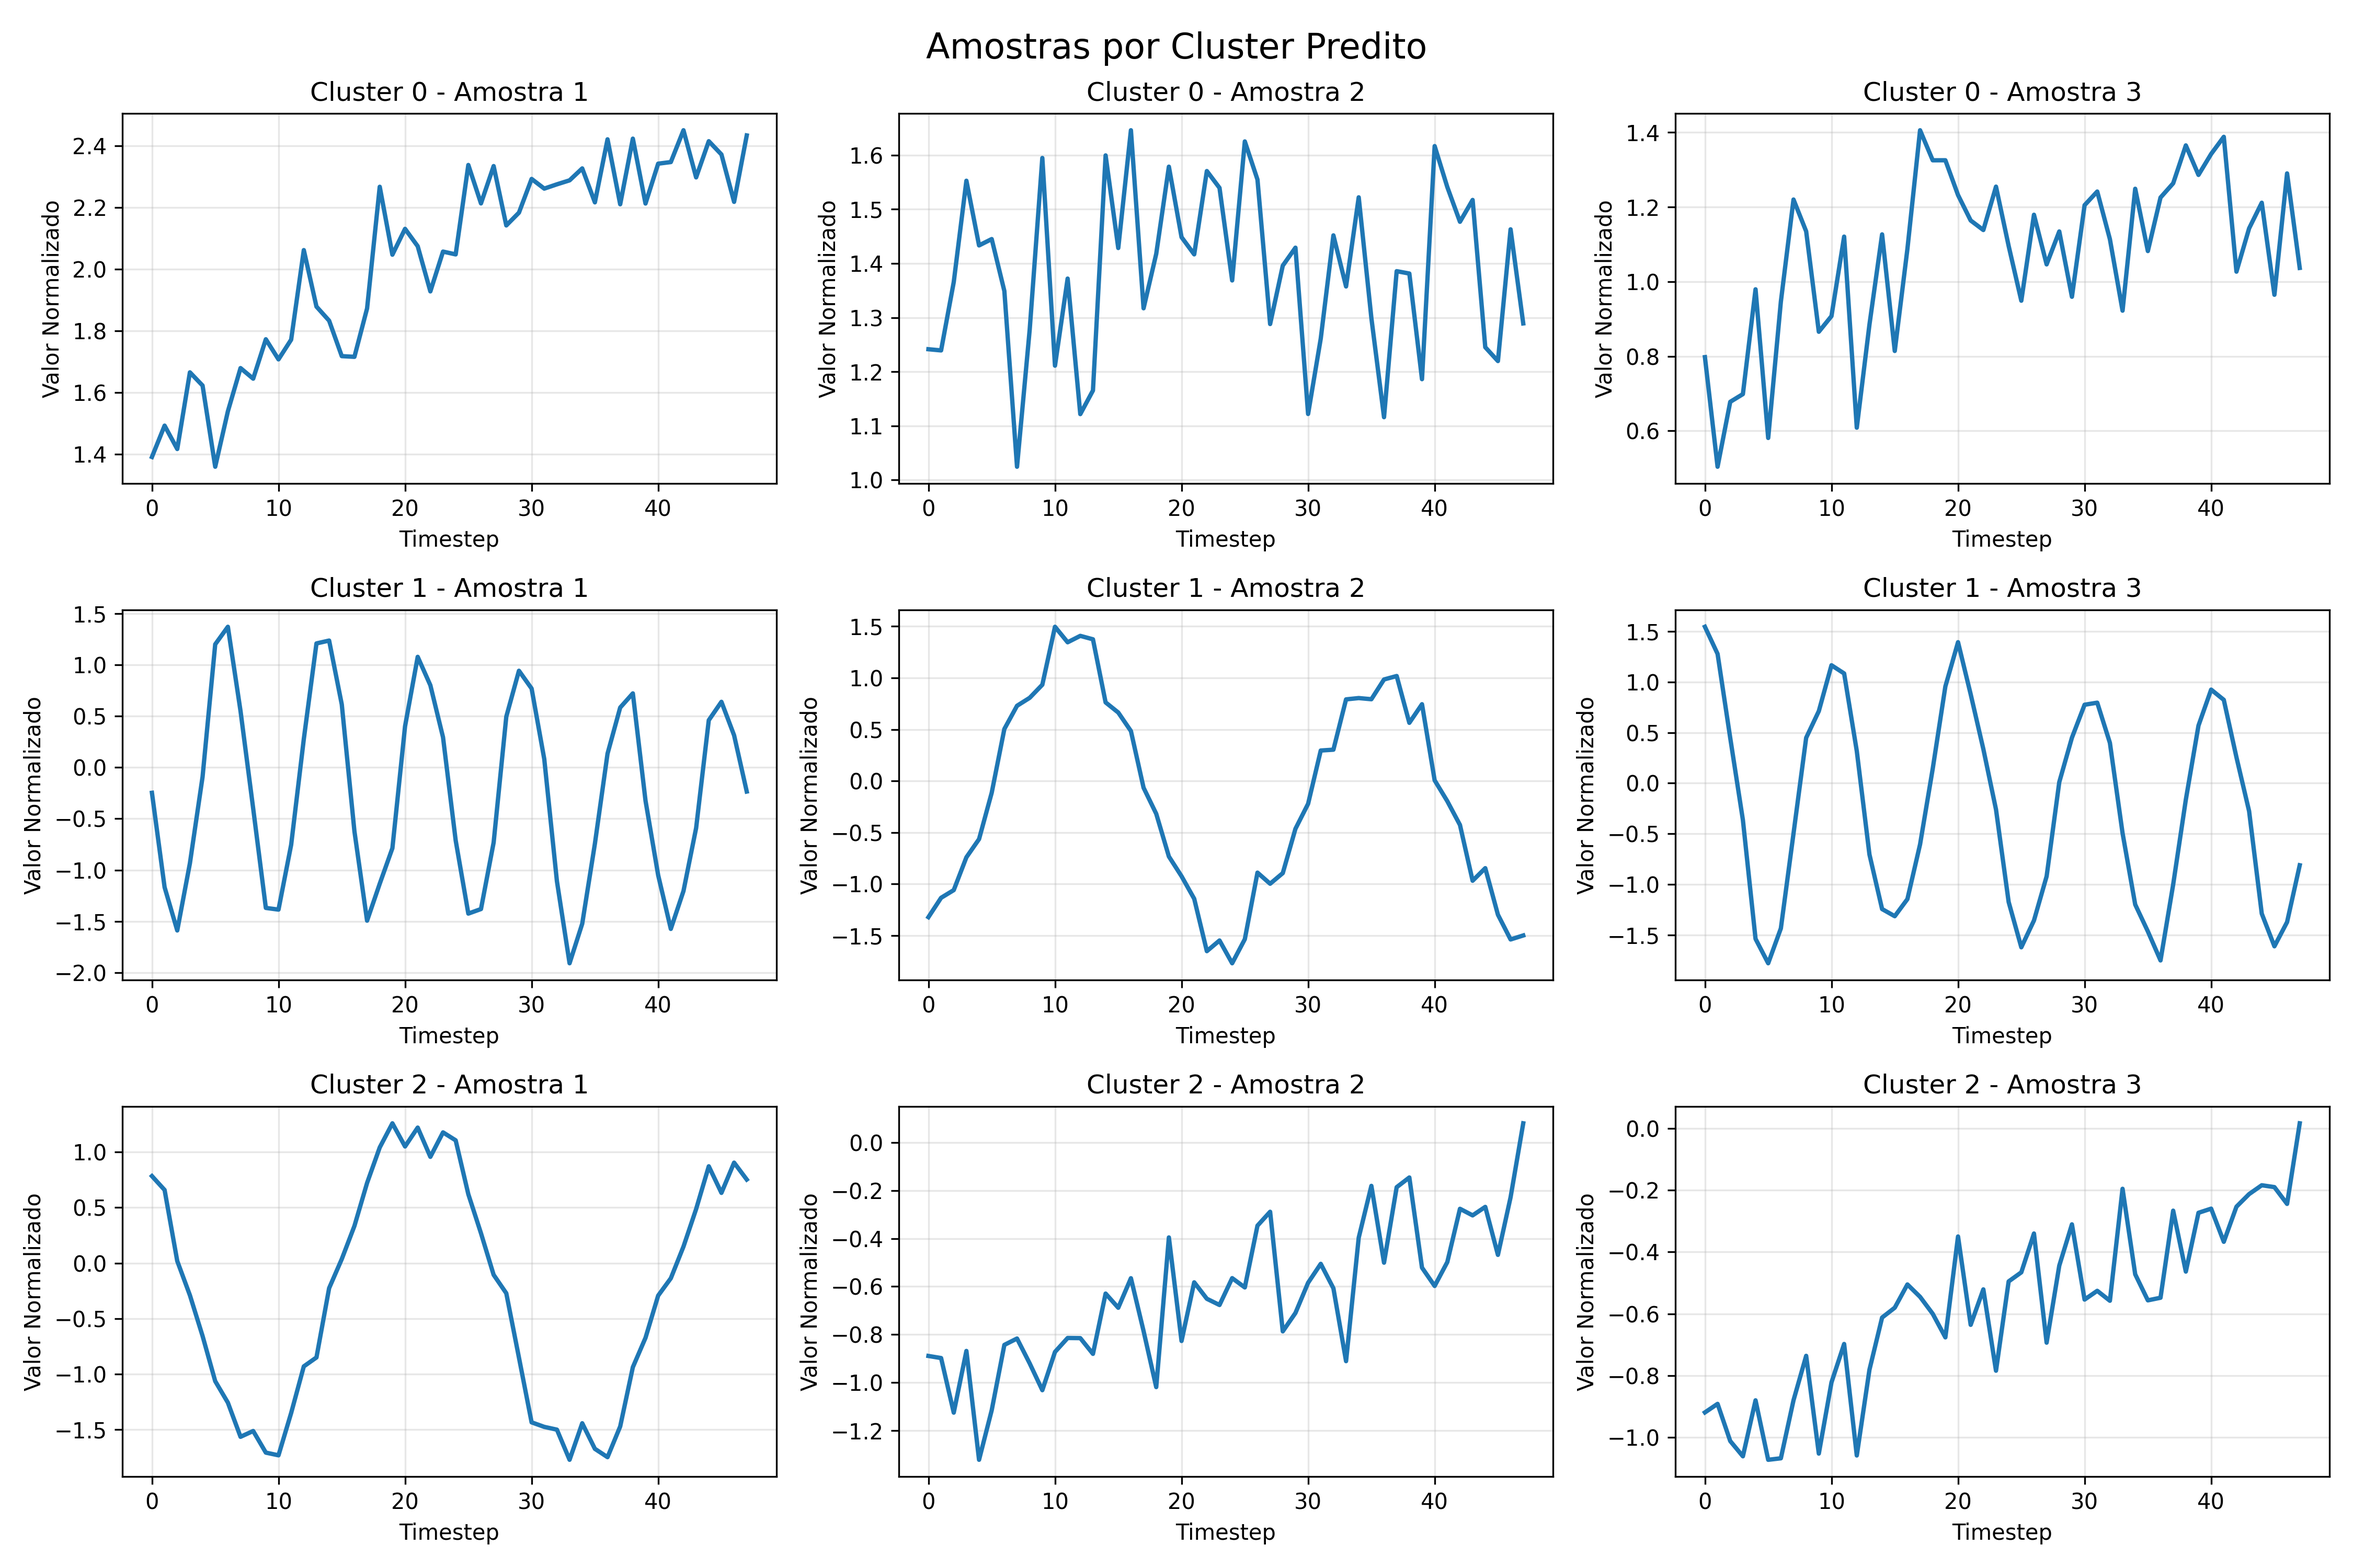
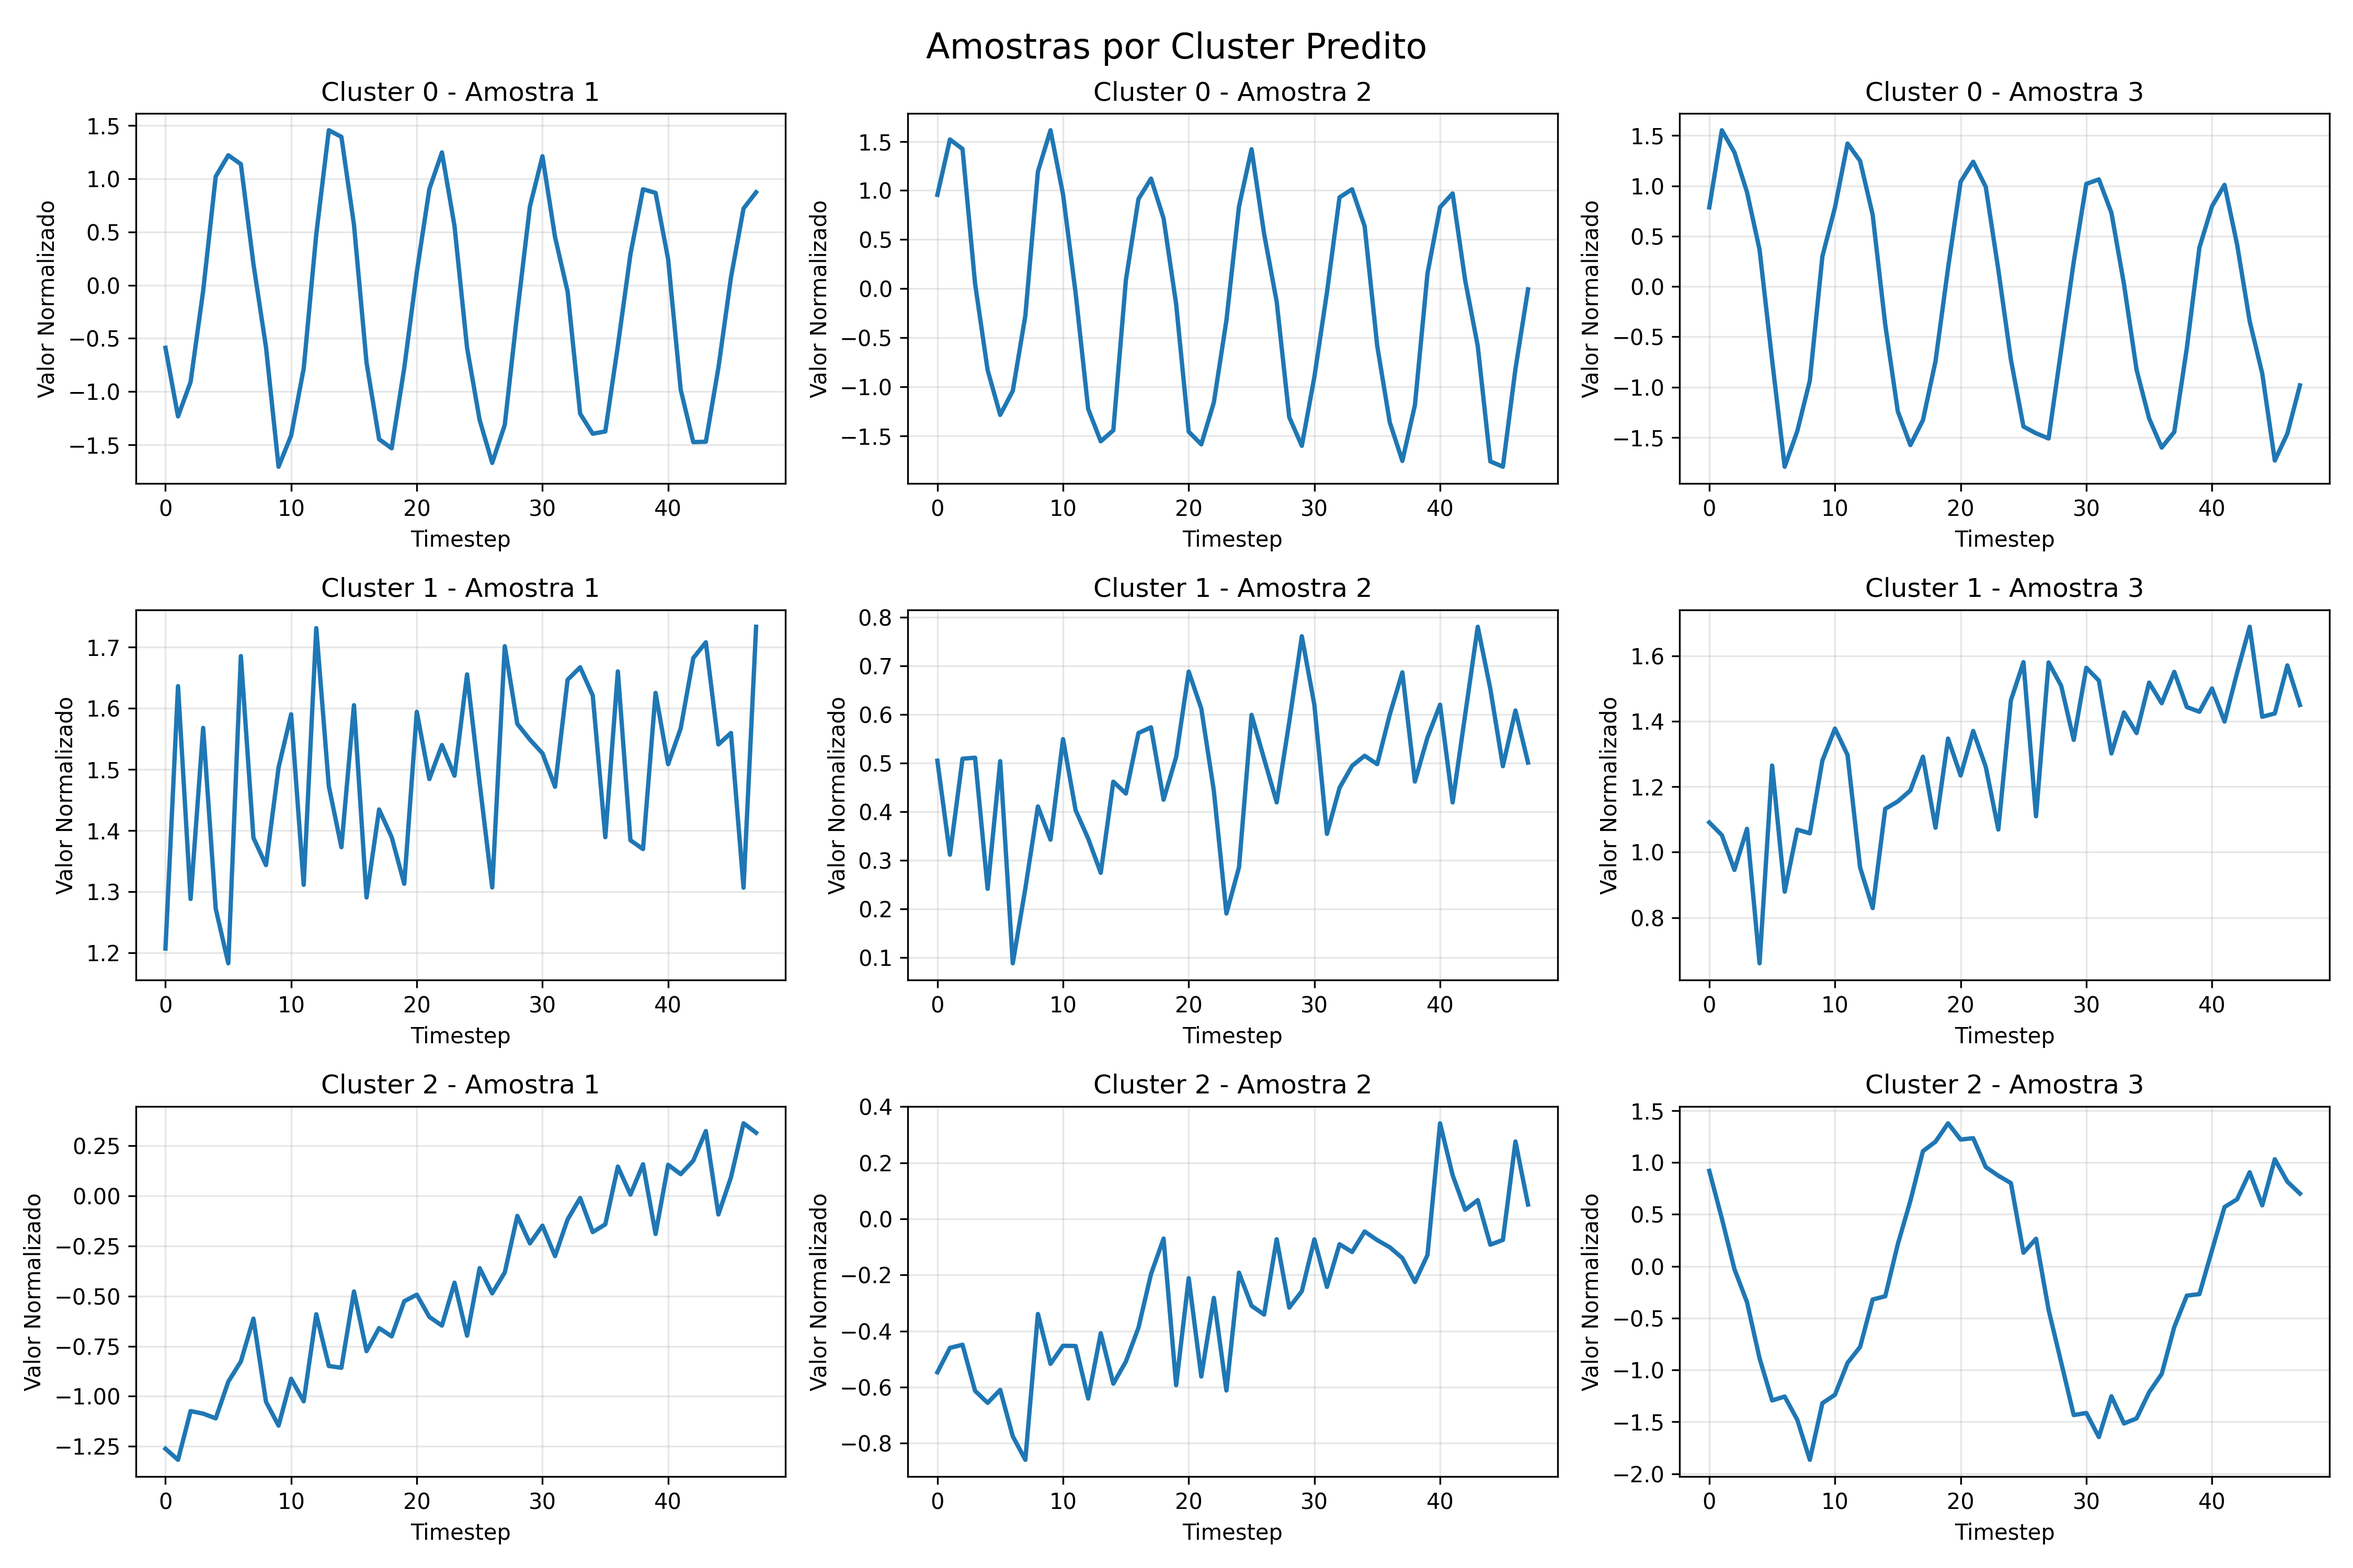
Retirando caracteres inválidos

diff --git a/main.py b/main.py
@@ -56,7 +56,7 @@ for cluster in range(3):
 
 plt.tight_layout()
 plt.savefig('clusters_visualization.png', dpi=300)
-print("\n✅ Visualização salva em 'clusters_visualization.png'")
+print("\n Visualização salva em 'clusters_visualization.png'")
 
 # Matriz de confusão
 from sklearn.metrics import confusion_matrix
@@ -71,6 +71,6 @@ plt.title('Matriz de Confusão')
 plt.ylabel('Cluster Real')
 plt.xlabel('Cluster Predito')
 plt.savefig('confusion_matrix.png', dpi=300)
-print("✅ Matriz de confusão salva em 'confusion_matrix.png'")
+print("Matriz de confusão salva em 'confusion_matrix.png'")
 
 plt.show()
